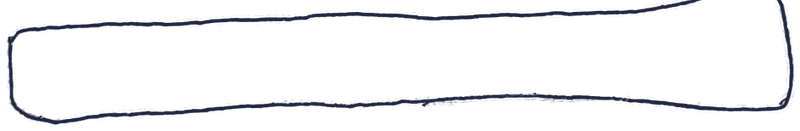
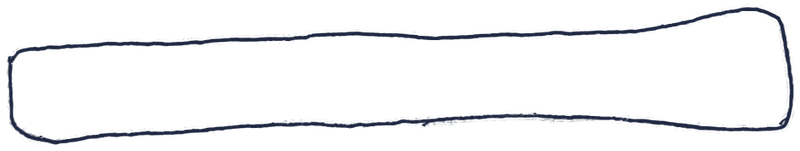
Drawn-circle pie chart, re-cut first answer bar, lower dialog close button
- Pie chart is clipped to the left circle of the hand-drawn Venn with its
  pencil line on top.
- First answer bar re-cut from the sketch so its top edge is complete.
- Dialogs keep clear of the phone's top edge (dvh, safe areas) and the
  close button stays pinned in view while scrolling.

Claude-Session: https://claude.ai/code/session_01Fm86kn3irURA4uKaWNrQYn

Changed region(s): [[0.0, 0.0, 1.0, 0.5802], [0.0, 0.6107, 1.0, 0.9771], [0.0, 0.6107, 0.0312, 0.6718]]

diff --git a/js/app.js b/js/app.js
@@ -563,6 +563,7 @@
   var PIE_COLOURS = ["#38618C", "#A2AD91", "#FA7921", "#D30C7B", "#5C573E", "#7f8fa6", "#c9a66b"];
   function pieChart(rows) {
     var total = rows.reduce(function (t, r) { return t + r[1]; }, 0);
+    if (DRAWN) return drawnPie(rows, total);
     var R = 46, C = 50, svg = '<svg viewBox="0 0 100 100" class="pie" role="img" aria-label="Results by number of turns">';
     var colour = function (r, i) { return r[0] === "X" ? "#b9b2aa" : PIE_COLOURS[i % PIE_COLOURS.length]; };
     if (!total) {
@@ -593,6 +594,39 @@
         (r[0] === "X" ? "Missed" : r[0] + (r[0] === "1" ? " turn" : " turns")) + '<span class="cnt">' + r[1] + "</span></li>";
     }).join("") + "</ul>";
     return svg + legend + (total ? "" : '<p class="pie-note">Your results will appear here.</p>');
+  }
+
+  function pieLegend(rows, colour, total) {
+    return '<ul class="pie-legend">' + rows.map(function (r, i) {
+      return '<li' + (r[2] ? ' class="now"' : "") + '><span class="sw" style="background:' + colour(r, i) + '"></span>' +
+        (r[0] === "X" ? "Missed" : r[0] + (r[0] === "1" ? " turn" : " turns")) + '<span class="cnt">' + r[1] + "</span></li>";
+    }).join("") + "</ul>" + (total ? "" : '<p class="pie-note">Your results will appear here.</p>');
+  }
+
+  // The same pie, cut to the shape of the left circle of the hand-drawn Venn
+  // (img/drawn/pie-mask.png) with the drawn line on top (pie-outline.png).
+  function drawnPie(rows, total) {
+    var W = 673, H = 734, CX = 340, CY = 366, R = 700;
+    var colour = function (r, i) { return r[0] === "X" ? "#b9b2aa" : PIE_COLOURS[i % PIE_COLOURS.length]; };
+    var svg = '<svg viewBox="0 0 ' + W + " " + H + '" class="pie-fill" aria-hidden="true">';
+    var angle = -Math.PI / 2;
+    rows.forEach(function (r, i) {
+      if (!r[1]) return;
+      var a = r[1] / total * Math.PI * 2;
+      var cls = r[2] ? ' class="now"' : "";
+      if (r[1] === total) {
+        svg += '<rect width="' + W + '" height="' + H + '" fill="' + colour(r, i) + '"' + cls + "/>";
+      } else {
+        var x1 = CX + R * Math.cos(angle), y1 = CY + R * Math.sin(angle);
+        var x2 = CX + R * Math.cos(angle + a), y2 = CY + R * Math.sin(angle + a);
+        svg += '<path d="M' + CX + " " + CY + " L" + x1.toFixed(1) + " " + y1.toFixed(1) +
+          " A" + R + " " + R + " 0 " + (a > Math.PI ? 1 : 0) + " 1 " + x2.toFixed(1) + " " + y2.toFixed(1) + ' Z" fill="' + colour(r, i) + '"' + cls + "/>";
+      }
+      angle += a;
+    });
+    svg += "</svg>";
+    return '<div class="pie-wrap" role="img" aria-label="Results by number of turns">' + (total ? svg : "") +
+      '<img src="img/drawn/pie-outline.png" alt=""></div>' + pieLegend(rows, colour, total);
   }
 
   var countdownTimer;

diff --git a/css/style.css b/css/style.css
@@ -321,9 +321,11 @@ main {
 dialog {
   border: none;
   border-radius: 18px;
-  padding: 22px 20px 20px;
+  padding: 0 20px 20px;
   width: min(440px, calc(100vw - 32px));
-  max-height: calc(100vh - 40px);
+  max-height: calc(100vh - 64px);
+  max-height: calc(100dvh - 64px - env(safe-area-inset-top) - env(safe-area-inset-bottom));
+  margin: auto;
   background: var(--surface);
   color: var(--ink);
   box-shadow: 0 20px 60px rgba(0,0,0,0.25);
@@ -331,14 +333,24 @@ dialog {
 dialog::backdrop { background: rgba(20, 16, 12, 0.45); }
 dialog h2 { margin: 0 0 10px; font-size: 1.25rem; }
 dialog p { line-height: 1.45; margin: 8px 0; }
+/* close button stays pinned at the top while the dialog scrolls */
+dialog .close:focus { outline: none; }
 dialog .close {
-  position: absolute;
-  right: 10px; top: 8px;
-  border: none; background: none;
-  font-size: 1.7rem;
+  position: sticky;
+  top: 0;
+  float: right;
+  z-index: 2;
+  width: 44px; height: 44px;
+  margin: 8px -12px 0 0;
+  border: none;
+  border-radius: 50%;
+  background: var(--surface);
+  font-size: 1.8rem;
   line-height: 1;
   color: var(--muted);
 }
+dialog > h2:first-of-type, dialog > #resultBlock { padding-top: 18px; }
+#resultBlock:empty { display: none; }
 dialog .primary { display: block; width: 100%; margin-top: 14px; }
 
 .help-example svg { width: 100%; max-width: 280px; display: block; margin: 6px auto; }
@@ -509,6 +521,14 @@ dialog h3 { font-size: 0.95rem; margin: 14px 0 8px; color: var(--muted); font-we
 .pie-legend li.now { font-weight: 700; }
 .pie-legend .sw { width: 12px; height: 12px; border-radius: 50%; flex: none; }
 .pie-legend .cnt { margin-left: auto; font-variant-numeric: tabular-nums; }
+.pie-wrap { position: relative; width: 100%; aspect-ratio: 673 / 734; }
+.pie-wrap > * { position: absolute; inset: 0; width: 100%; height: 100%; }
+.pie-fill {
+  -webkit-mask: url(../img/drawn/pie-mask.png) center / 100% 100% no-repeat;
+  mask: url(../img/drawn/pie-mask.png) center / 100% 100% no-repeat;
+}
+.pie-fill path, .pie-fill rect { fill-opacity: 0.6; stroke: var(--surface); stroke-width: 8; }
+.pie-fill .now { fill-opacity: 0.95; }
 .pie-note { grid-column: 1 / -1; margin: 0; text-align: center; color: var(--muted); font-size: 0.9rem; }
 .past-link {
   display: block;
